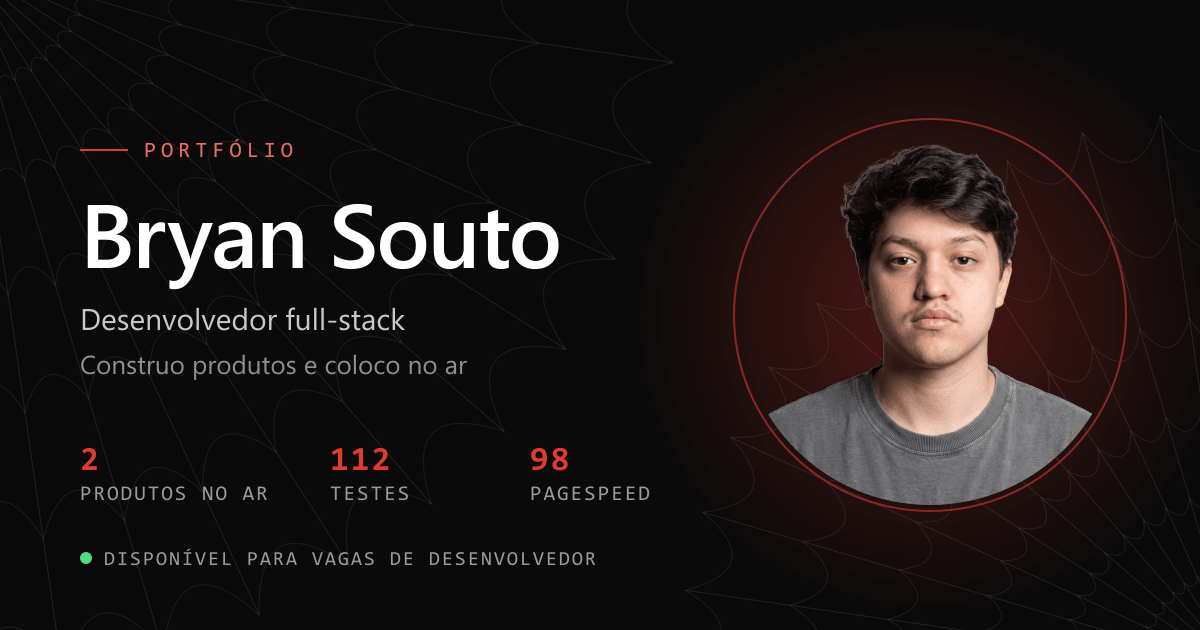
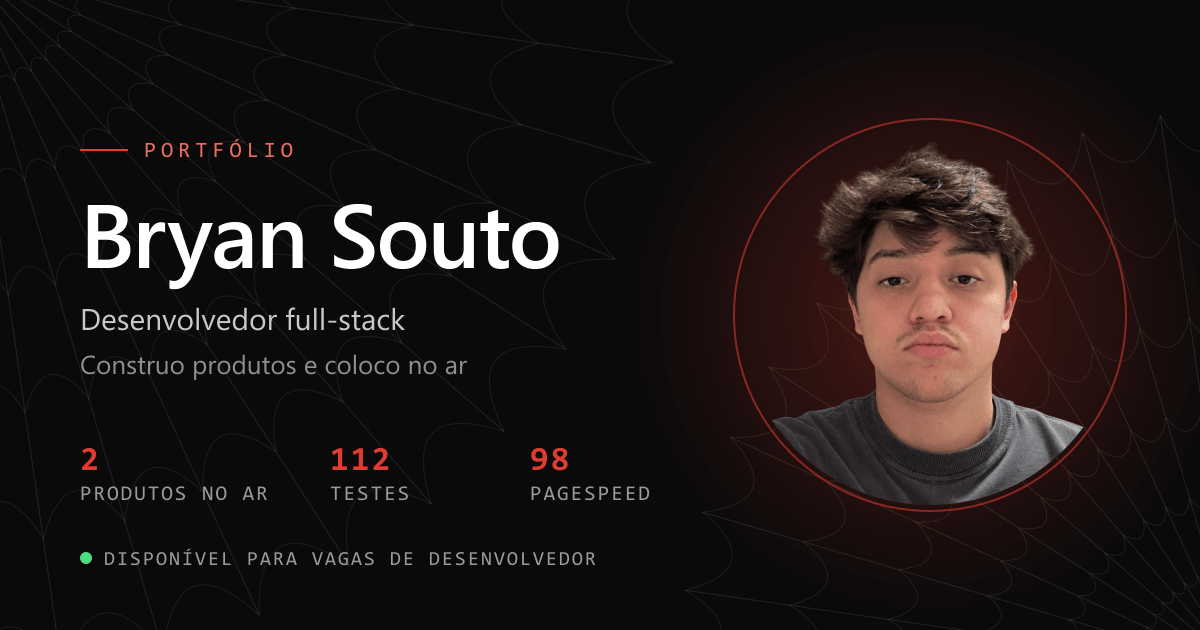
feat: retrato novo, com fundo já recortado
Troca de fotoPerfilSemFundo.png. O original antigo (5,8 MB) sai; o novo tem
1,7 MB e já vem sem fundo, o que combina melhor com o círculo escuro do hero.

Enquadramento
- Um cover para 768x768 cortaria o cabelo pelo topo: a foto é 1199x1312 e o
  cover centraliza, tirando o que sobra dos dois lados
- O recorte é SIMÉTRICO AO ROSTO, medido no canal alfa linha a linha: topo do
  cabelo em y=7, centro do rosto em x≈610, ombros ocupando a largura inteira a
  partir de y≈900. Como o rosto está a 610 da esquerda e 589 da direita, o
  maior quadrado simétrico tem 1178 de lado a partir de x=21
- A primeira tentativa montou uma moldura mais larga que a foto para reproduzir
  a proporção de cabeça anterior, e sobrou transparência nas laterais: dentro
  do círculo virava vazio, com os ombros sem alcançar as bordas
- Duas passagens no sharp, porque ele aplica resize ANTES de composite e
  recusa compor algo maior que o destino

Máscara realinhada
- A cabeça ficou ~7% maior (foto mais fechada), então a máscara foi de
  scale 0.95 para 1.02, e o deslocamento horizontal saiu: com recorte
  simétrico não há nada a corrigir nessa direção
- Calibrado sobrepondo as duas imagens a 50% até as lentes caírem sobre os
  olhos, como da outra vez

A imagem de compartilhamento foi regerada do mesmo retrato.

Claude-Session: https://claude.ai/code/session_01BuFRT8BFfuA6xe7VLFHEDa

Changed region(s): [[0.6475, 0.2111, 0.925, 0.8143]]

diff --git a/src/components/Hero.tsx b/src/components/Hero.tsx
@@ -203,13 +203,14 @@ export function Hero() {
              * Os números abaixo vêm de medir as duas imagens e fazer as linhas
              * dos olhos e a largura da cabeça coincidirem:
              *
-             *   scale 0.95   iguala a altura das duas cabeças (440/465)
-             *   translate    põe o centro da máscara sobre o centro do rosto,
-             *                que está um pouco à direita e abaixo. O valor
-             *                vertical foi calibrado sobrepondo as duas imagens
-             *                a 50% e conferindo se as lentes caem em cima dos
-             *                olhos — na primeira tentativa as pupilas ficavam
-             *                na borda de baixo da lente
+             *   scale 1.02   iguala a altura das duas cabeças. Era 0,95 com a
+             *                foto anterior; a atual é mais fechada e a cabeça
+             *                ficou ~7% maior, então a máscara subiu junto
+             *   translate    só vertical: o recorte da foto é simétrico ao
+             *                rosto, então não há nada a corrigir na horizontal.
+             *                O valor foi calibrado sobrepondo as duas imagens a
+             *                50% de opacidade e conferindo se as lentes caem em
+             *                cima dos olhos
              *
              * Nada é recortado no arquivo: os dois assets seguem intactos, em
              * resolução cheia. O ajuste é só transformação de CSS, que o
@@ -222,8 +223,8 @@ export function Hero() {
               draggable={false}
               className={`absolute inset-0 h-full w-full origin-center object-cover object-center brightness-[1.08] contrast-105 transition-all duration-500 ${
                 hover
-                  ? "translate-x-[1.8%] translate-y-[2.6%] scale-[0.95] opacity-100"
-                  : "translate-x-[1.8%] translate-y-[2.6%] scale-[1.06] opacity-0 blur-sm"
+                  ? "translate-y-[5%] scale-[1.02] opacity-100"
+                  : "translate-y-[5%] scale-[1.14] opacity-0 blur-sm"
               }`}
             />
           </div>
